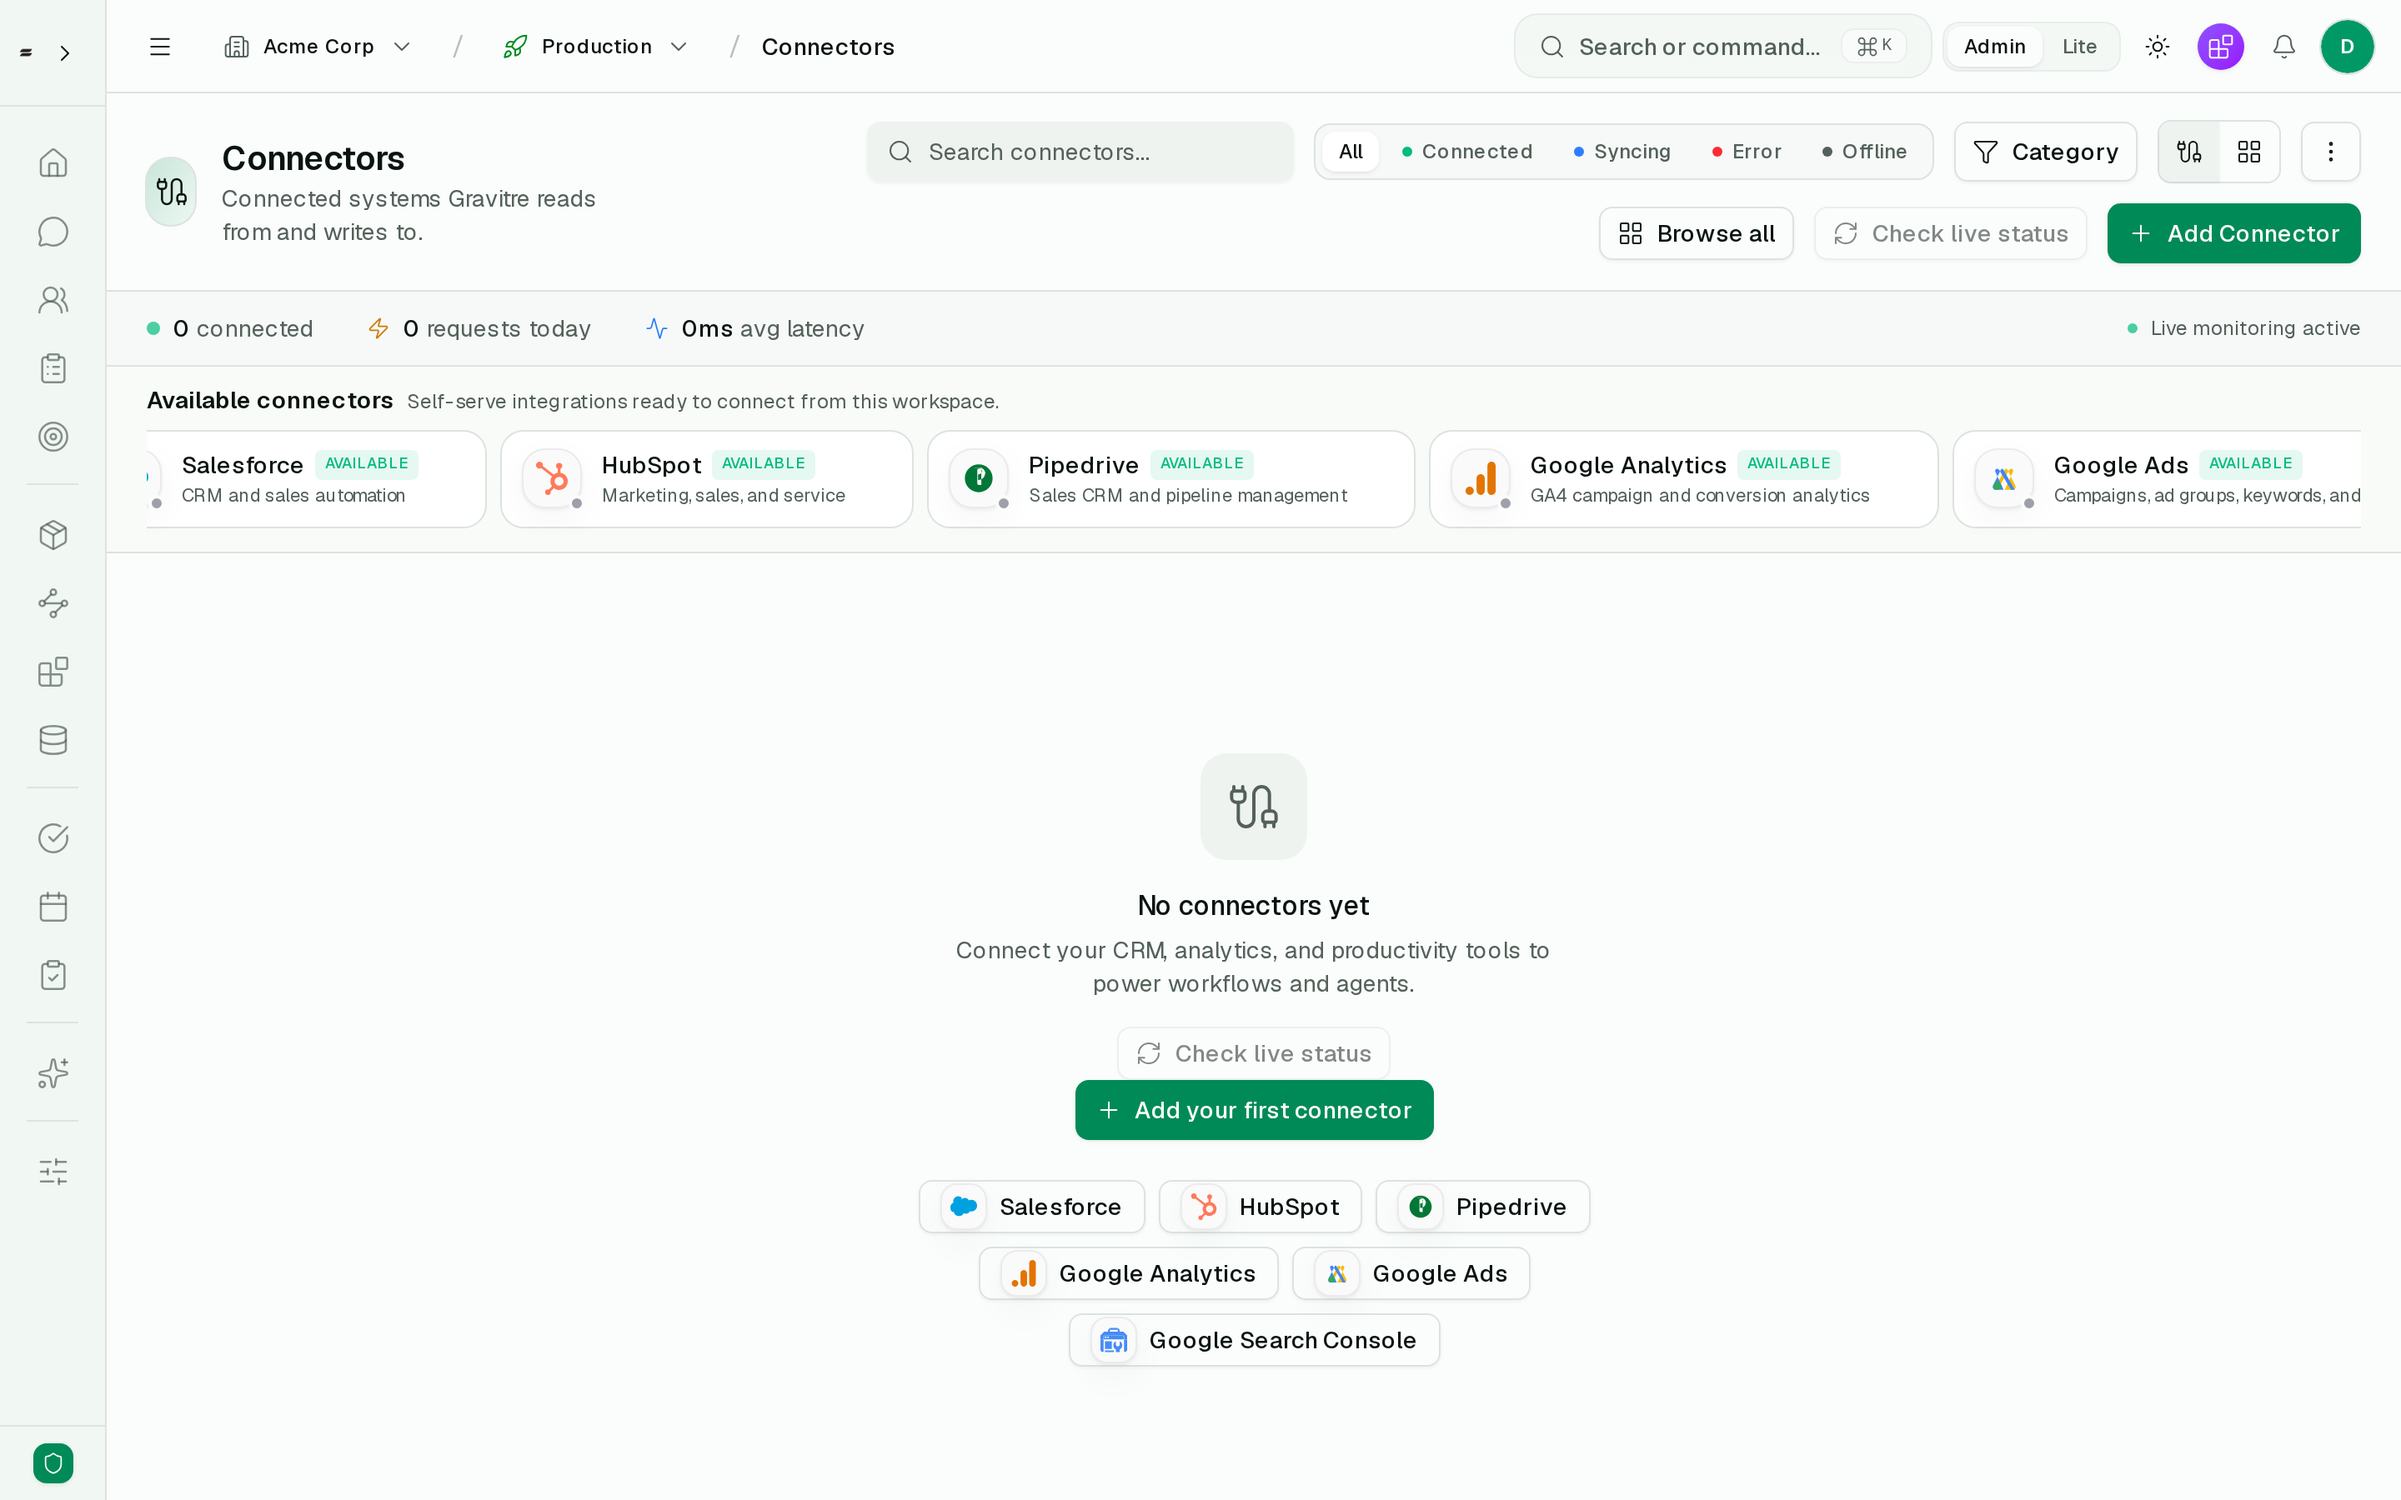
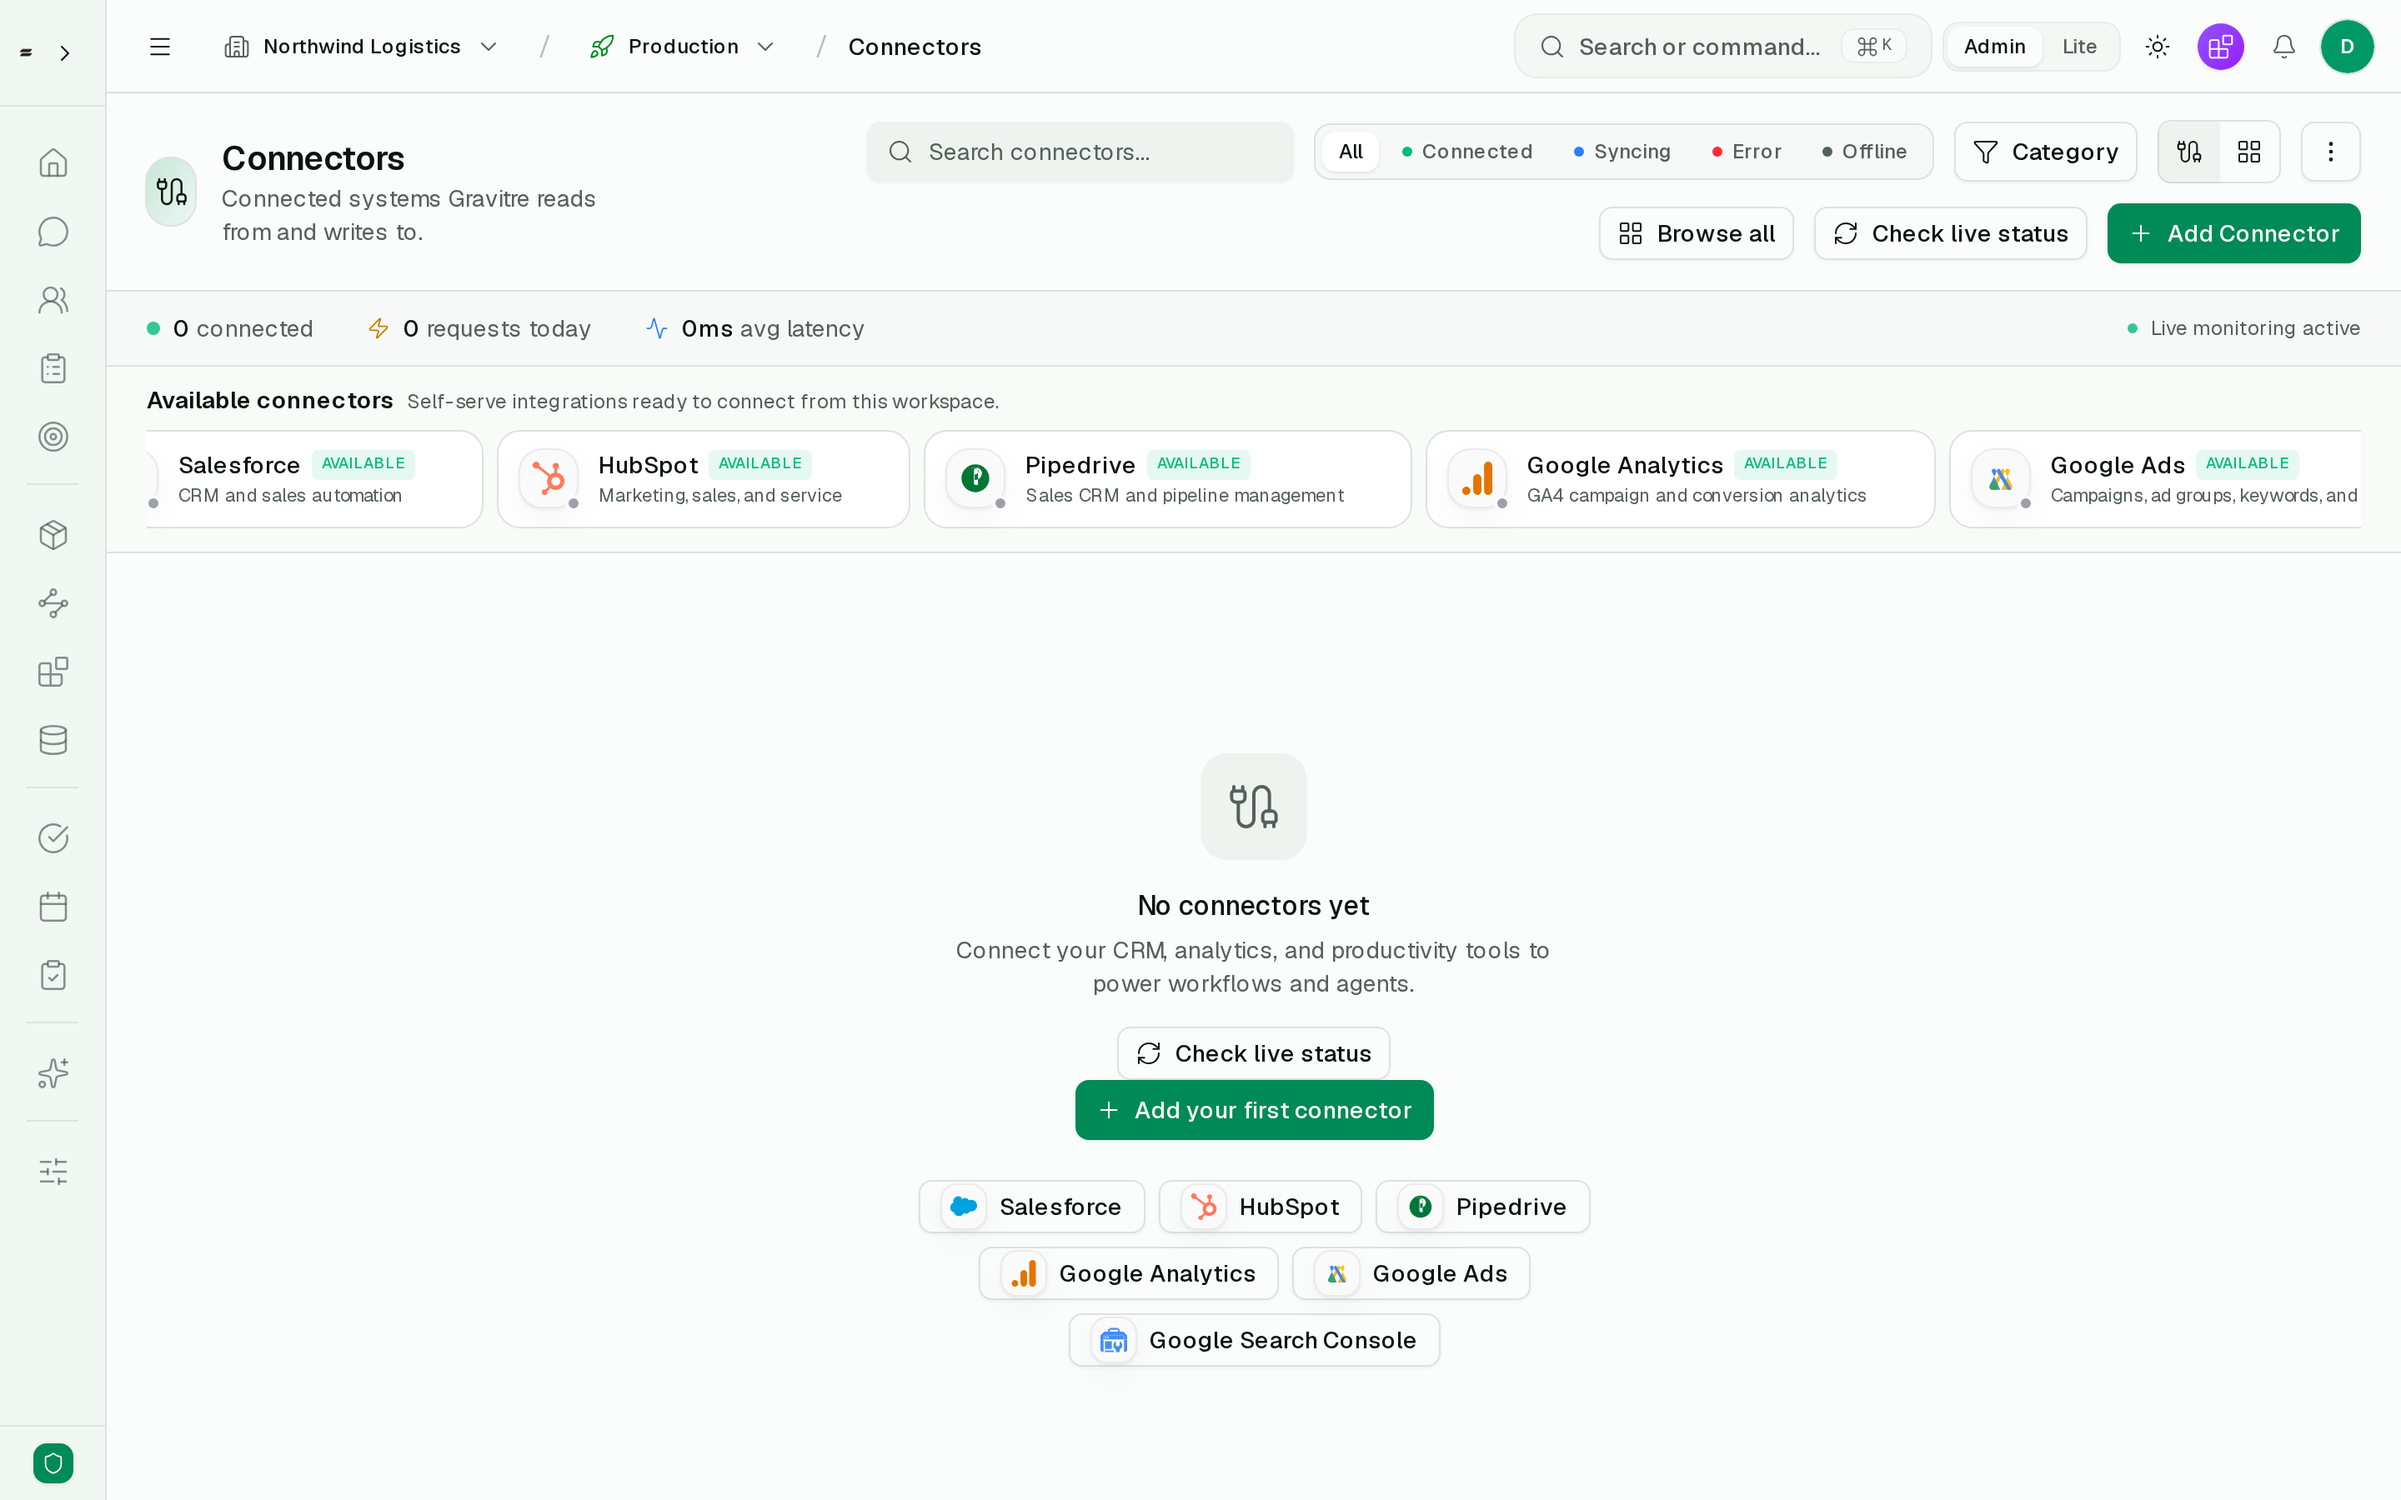
feat: add new connectors and approval fixtures to e2e-shot-fixtures

diff --git a/apps/web/lib/e2e-shot-fixtures.ts b/apps/web/lib/e2e-shot-fixtures.ts
@@ -151,6 +151,186 @@ export const SHOT_FIXTURES: Record<string, unknown> = {
   __supabaseUser: supabaseUser,
   __orgId: DEMO_ORG_ID,
 
+  // Shape must match the `Connector` interface in app/connectors/page.tsx.
+  // Requested as /api/connectors?org=…&live=1; the harness matches on pathname
+  // only, so the query string is irrelevant here.
+  "/api/connectors": {
+    connectors: [
+      {
+        id: "con_hubspot",
+        name: "HubSpot",
+        type: "crm",
+        vendorKey: "hubspot",
+        status: "connected",
+        environment: "production",
+        lastSync: T(3),
+        health: 99,
+        description: "Marketing, sales, and service",
+        category: "CRM",
+        authType: "oauth",
+        authStatus: "active",
+        requestsToday: 1284,
+        latency: 210,
+        dataFlowRate: "1.2k/day",
+        usedByWorkflows: 4,
+        triggeredByAgents: 2,
+      },
+      {
+        id: "con_salesforce",
+        name: "Salesforce",
+        type: "crm",
+        vendorKey: "salesforce",
+        status: "error",
+        environment: "production",
+        lastSync: T(96),
+        health: 42,
+        description: "CRM and sales automation",
+        category: "CRM",
+        authType: "oauth",
+        authStatus: "active",
+        requestsToday: 318,
+        latency: 540,
+        blockingReason: "Connected user lacks edit access on Opportunity objects.",
+        recoveryAction: "Grant the connected user edit access, then re-run the blocked step.",
+        usedByWorkflows: 3,
+        triggeredByAgents: 1,
+      },
+      {
+        id: "con_zendesk",
+        name: "Zendesk",
+        type: "support",
+        vendorKey: "zendesk",
+        status: "connected",
+        environment: "production",
+        lastSync: T(12),
+        health: 97,
+        description: "Support tickets and macros",
+        category: "Support",
+        authType: "oauth",
+        authStatus: "active",
+        requestsToday: 642,
+        latency: 260,
+        dataFlowRate: "640/day",
+        usedByWorkflows: 2,
+        triggeredByAgents: 1,
+      },
+      {
+        id: "con_slack",
+        name: "Slack",
+        type: "messaging",
+        vendorKey: "slack",
+        status: "syncing",
+        environment: "production",
+        lastSync: T(1),
+        health: 95,
+        description: "Notifications and approvals",
+        category: "Productivity",
+        authType: "oauth",
+        authStatus: "active",
+        requestsToday: 87,
+        latency: 180,
+        usedByWorkflows: 5,
+        triggeredByAgents: 0,
+      },
+    ],
+  },
+
+  // ensureSelectedOrg() resolves the active org from this list and calls
+  // purgeStaleDemoOrgFromStorage(), which DELETES the seeded gravitre:selectedOrg
+  // if its id is absent here. Without this the top bar falls back to its
+  // hardcoded "Acme Corp" default.
+  "/api/organizations": {
+    organizations: [
+      { id: DEMO_ORG_ID, name: "Northwind Logistics", slug: "northwind-logistics", role: "admin" },
+    ],
+  },
+
+  // Shape must match the `Approval` interface in app/approvals/page.tsx;
+  // normalizeApprovalsResponse drops any entry without an `id`.
+  "/api/approvals": {
+    approvals: [
+      {
+        id: "apr_01hq9d4k2m",
+        title: "Create HubSpot contact for Priya Raman",
+        description:
+          "Inbound lead from the pricing page. Gravitre matched no existing contact and prepared a create with the enriched company record.",
+        type: "workflow",
+        environment: "production",
+        requestedBy: "Inbound lead triage",
+        requestedAt: T(4),
+        priority: "high",
+        status: "pending",
+        aiRecommendation: {
+          // Whole percent: the UI renders `{confidence}%` verbatim, so 0.94 would
+          // display as "0.94% confidence".
+          action: "approve",
+          confidence: 94,
+          reason: "No duplicate contact found. Company domain verified against the enriched record.",
+        },
+        slaDeadline: T(-56),
+        slaMinutesRemaining: 56,
+        slaBreached: false,
+        context: {
+          entity: "HubSpot contact",
+          action: "hubspot.contacts.create",
+          impact: "Creates one contact and associates it with Northwind Logistics.",
+          runId: "run_01hq9d4k2m",
+        },
+      },
+      {
+        id: "apr_01hq9c8b1x",
+        title: "Update Salesforce opportunity stage to Negotiation",
+        description:
+          "Zendesk thread confirms the procurement call is booked. Gravitre prepared the stage change on opportunity 0064x.",
+        type: "workflow",
+        environment: "production",
+        requestedBy: "Deal desk sync",
+        requestedAt: T(38),
+        priority: "medium",
+        status: "pending",
+        aiRecommendation: {
+          action: "review",
+          confidence: 61,
+          reason: "Close date is unchanged while the stage advances — worth a human check.",
+        },
+        slaDeadline: T(-182),
+        slaMinutesRemaining: 182,
+        slaBreached: false,
+        context: {
+          entity: "Salesforce opportunity 0064x",
+          action: "salesforce.opportunity.update",
+          impact: "Changes StageName on one opportunity.",
+          runId: "run_01hq9c8b1x",
+        },
+      },
+      {
+        id: "apr_01hq9a2f7t",
+        title: "Grant Zendesk write scope to the support workflow",
+        description:
+          "The macro-apply step needs ticket write access. Gravitre is holding until an admin approves the scope change.",
+        type: "connector",
+        environment: "production",
+        requestedBy: "Dana Whitfield",
+        requestedAt: T(126),
+        priority: "low",
+        status: "pending",
+        aiRecommendation: {
+          action: "review",
+          confidence: 48,
+          reason: "Scope expansion is permanent until revoked. Confirm the workflow still needs it.",
+        },
+        slaDeadline: null,
+        slaMinutesRemaining: null,
+        slaBreached: false,
+        context: {
+          entity: "Zendesk connector",
+          action: "connector.scope.grant",
+          impact: "Adds tickets:write for every workflow using this connector.",
+        },
+      },
+    ],
+  },
+
   "/api/billing/status": {
     canAccessApp: true,
     billingStatus: "active",
